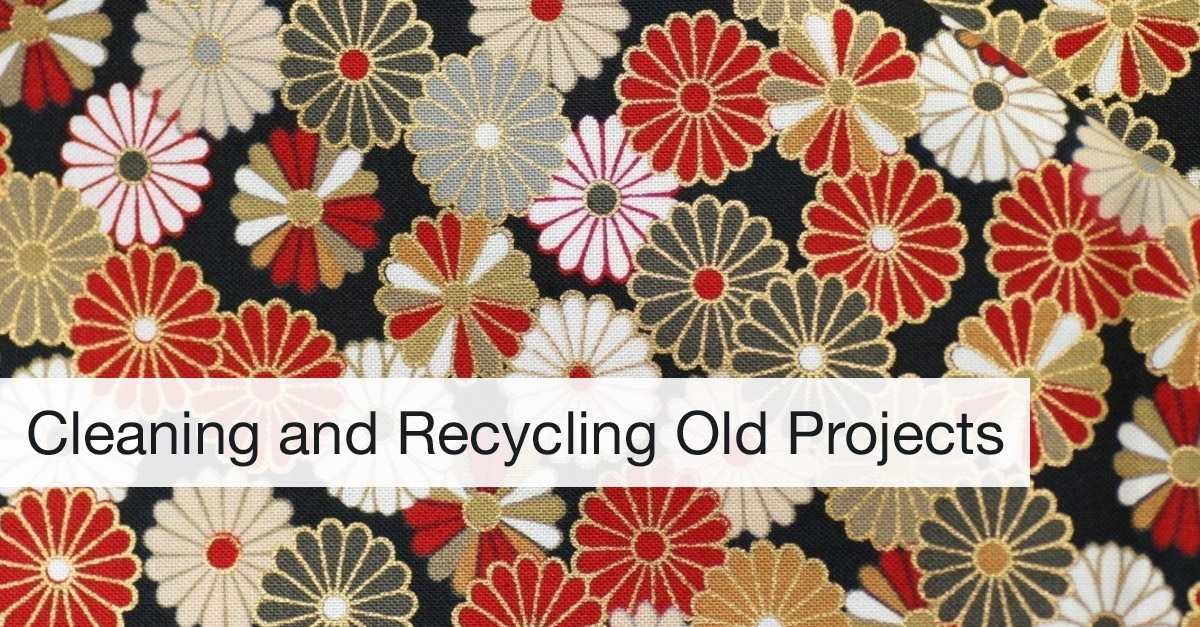
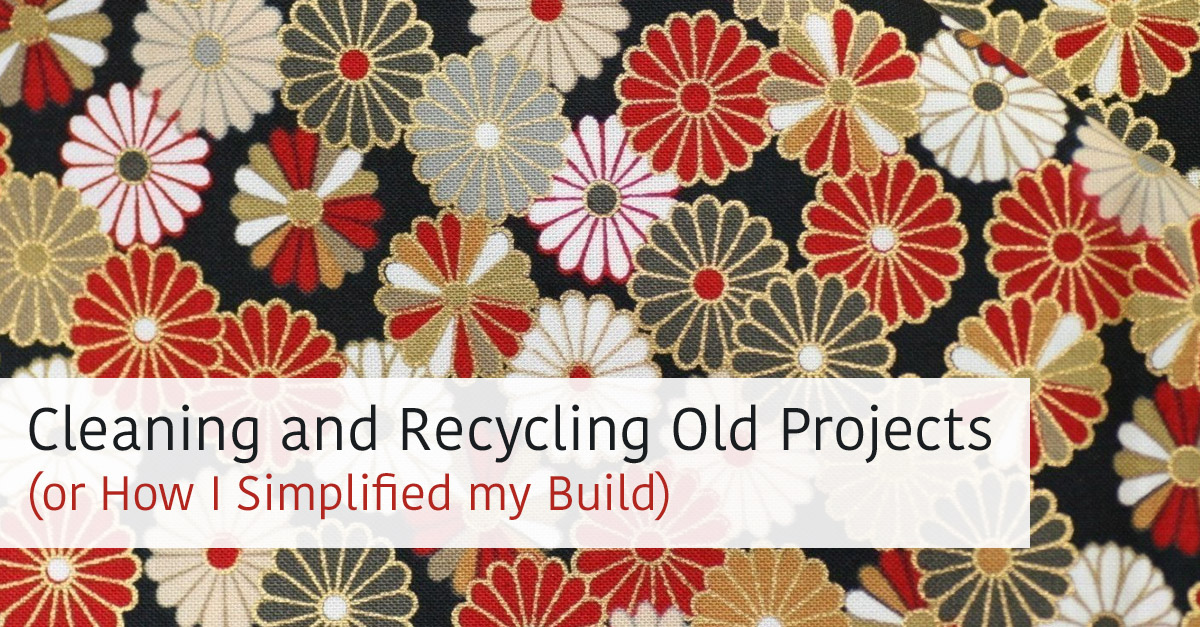
improve title

Changed region(s): [[0.0, 0.6364, 0.8633, 0.8788]]

diff --git a/blog/contents/articles/cleaning-recycling-old-projects/index.md b/blog/contents/articles/cleaning-recycling-old-projects/index.md
@@ -1,5 +1,5 @@
 ---
-title: "Cleaning and Recycling Old Projects (or How I Removed Gulp)"
+title: "Cleaning and Recycling Old Projects (or How I Simplified my Build)"
 author: Gaya
 date: 2020-02-18
 template: article.html
@@ -13,7 +13,7 @@ I was writing for my blog occasionally, but the system it was built on was terri
 
 In this article I want to take you through my process of dusting off and cleaning up an old project to breathe new life into it all without starting over completely from scratch.
 
-[![Cleaning and Recycling Old Projects (or How I Removed Gulp)](/articles/cleaning-recycling-old-projects/cleaning-recycling-old-projects-poster.jpg "Cleaning and Recycling Old Projects (or How I Removed Gulp)")](/articles/cleaning-recycling-old-projects)
+[![Cleaning and Recycling Old Projects (or How I Simplified my Build)](/articles/cleaning-recycling-old-projects/cleaning-recycling-old-projects-poster.jpg "Cleaning and Recycling Old Projects (or How I Simplified my Build)")](/articles/cleaning-recycling-old-projects)
 
 <span class="more"></span>
 
